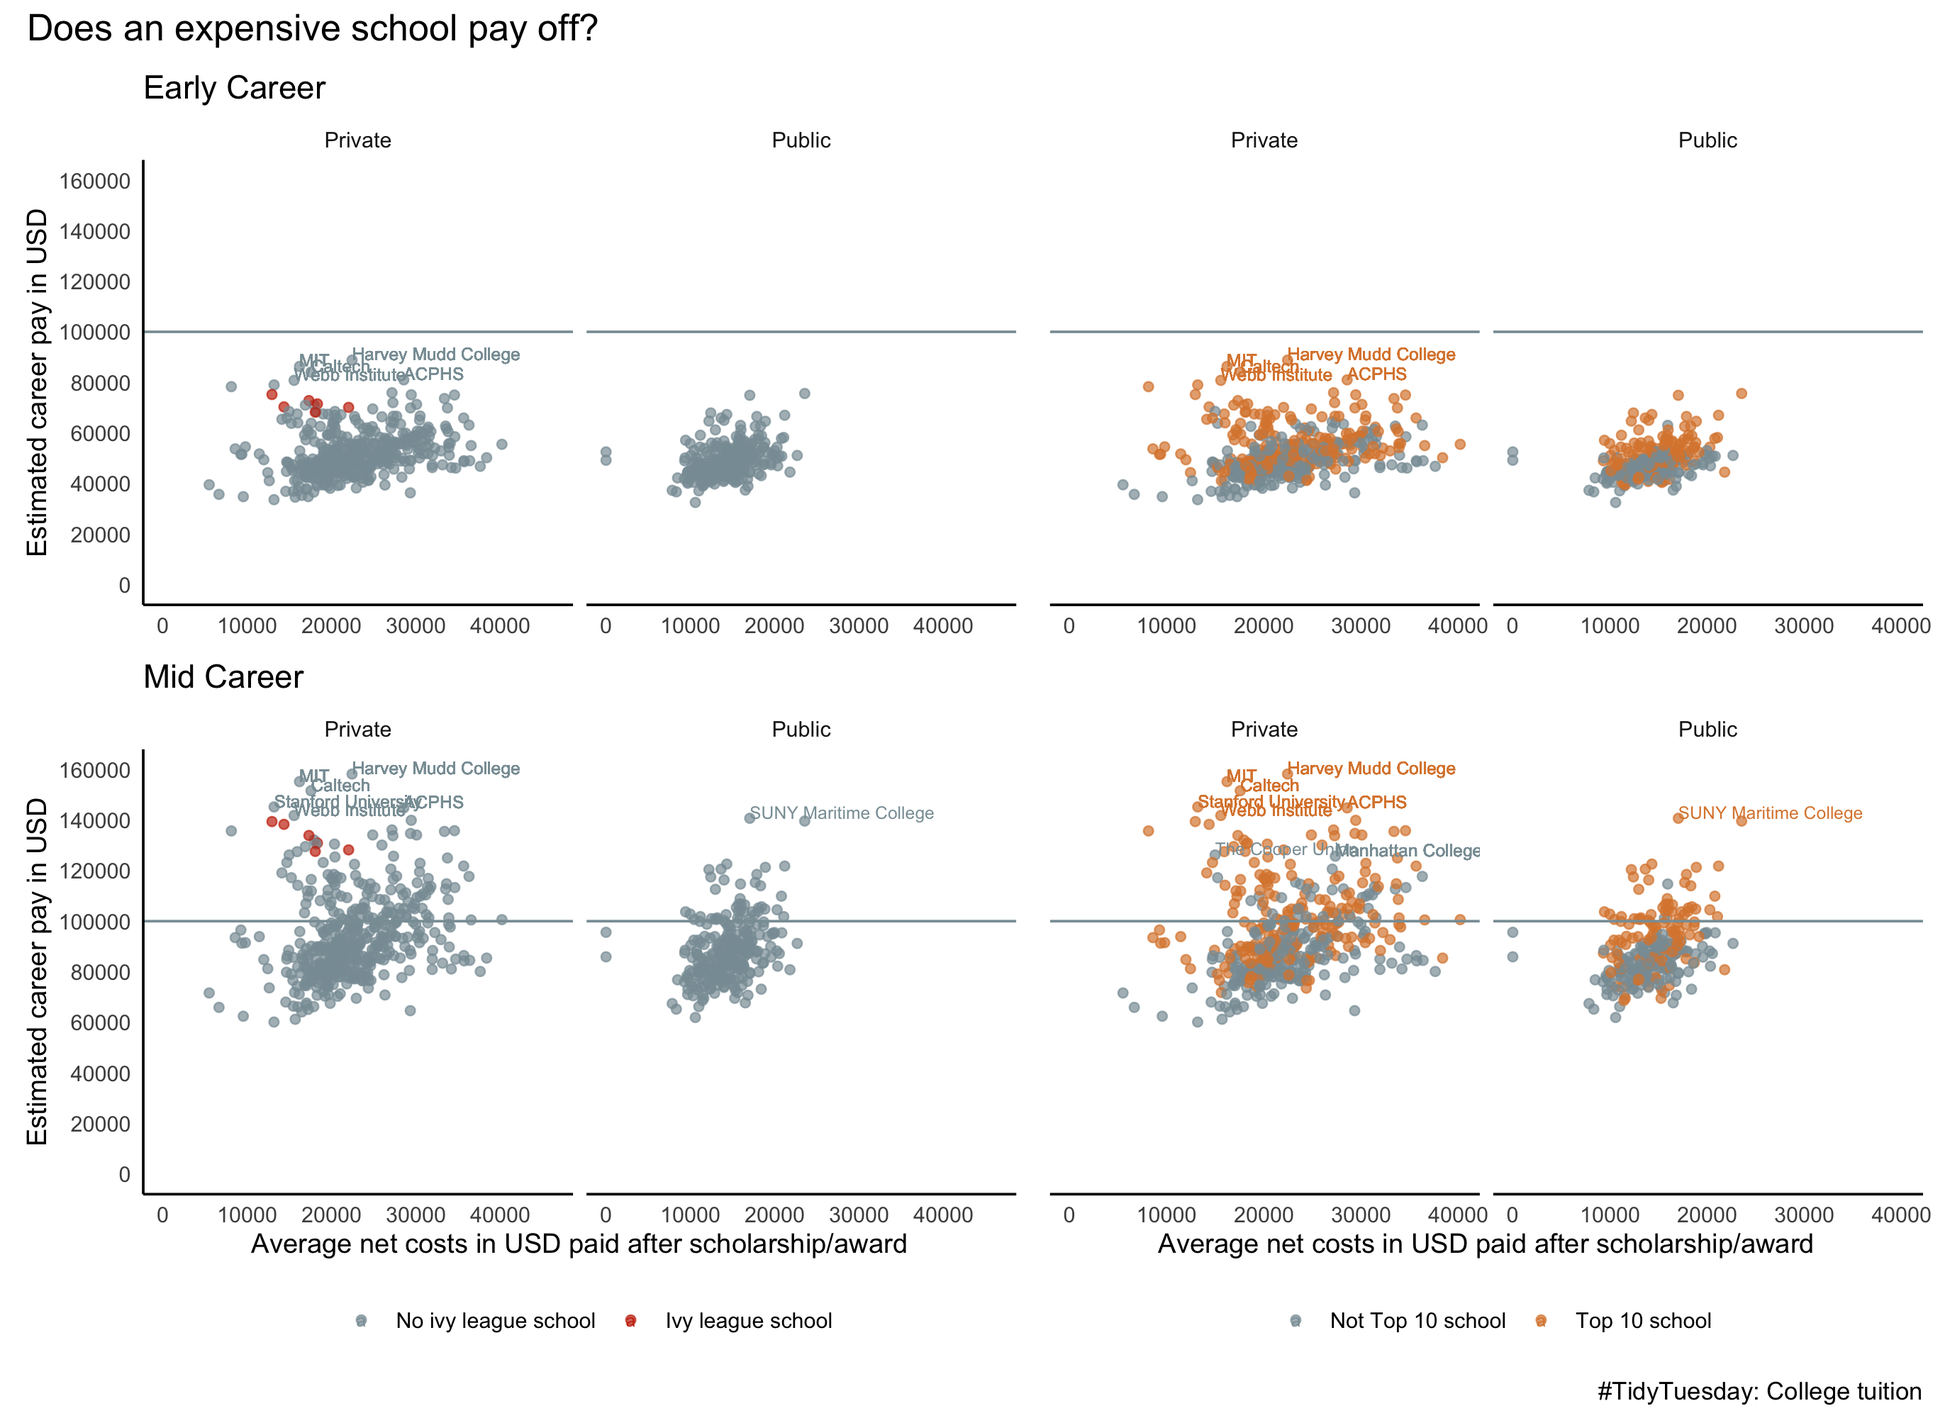
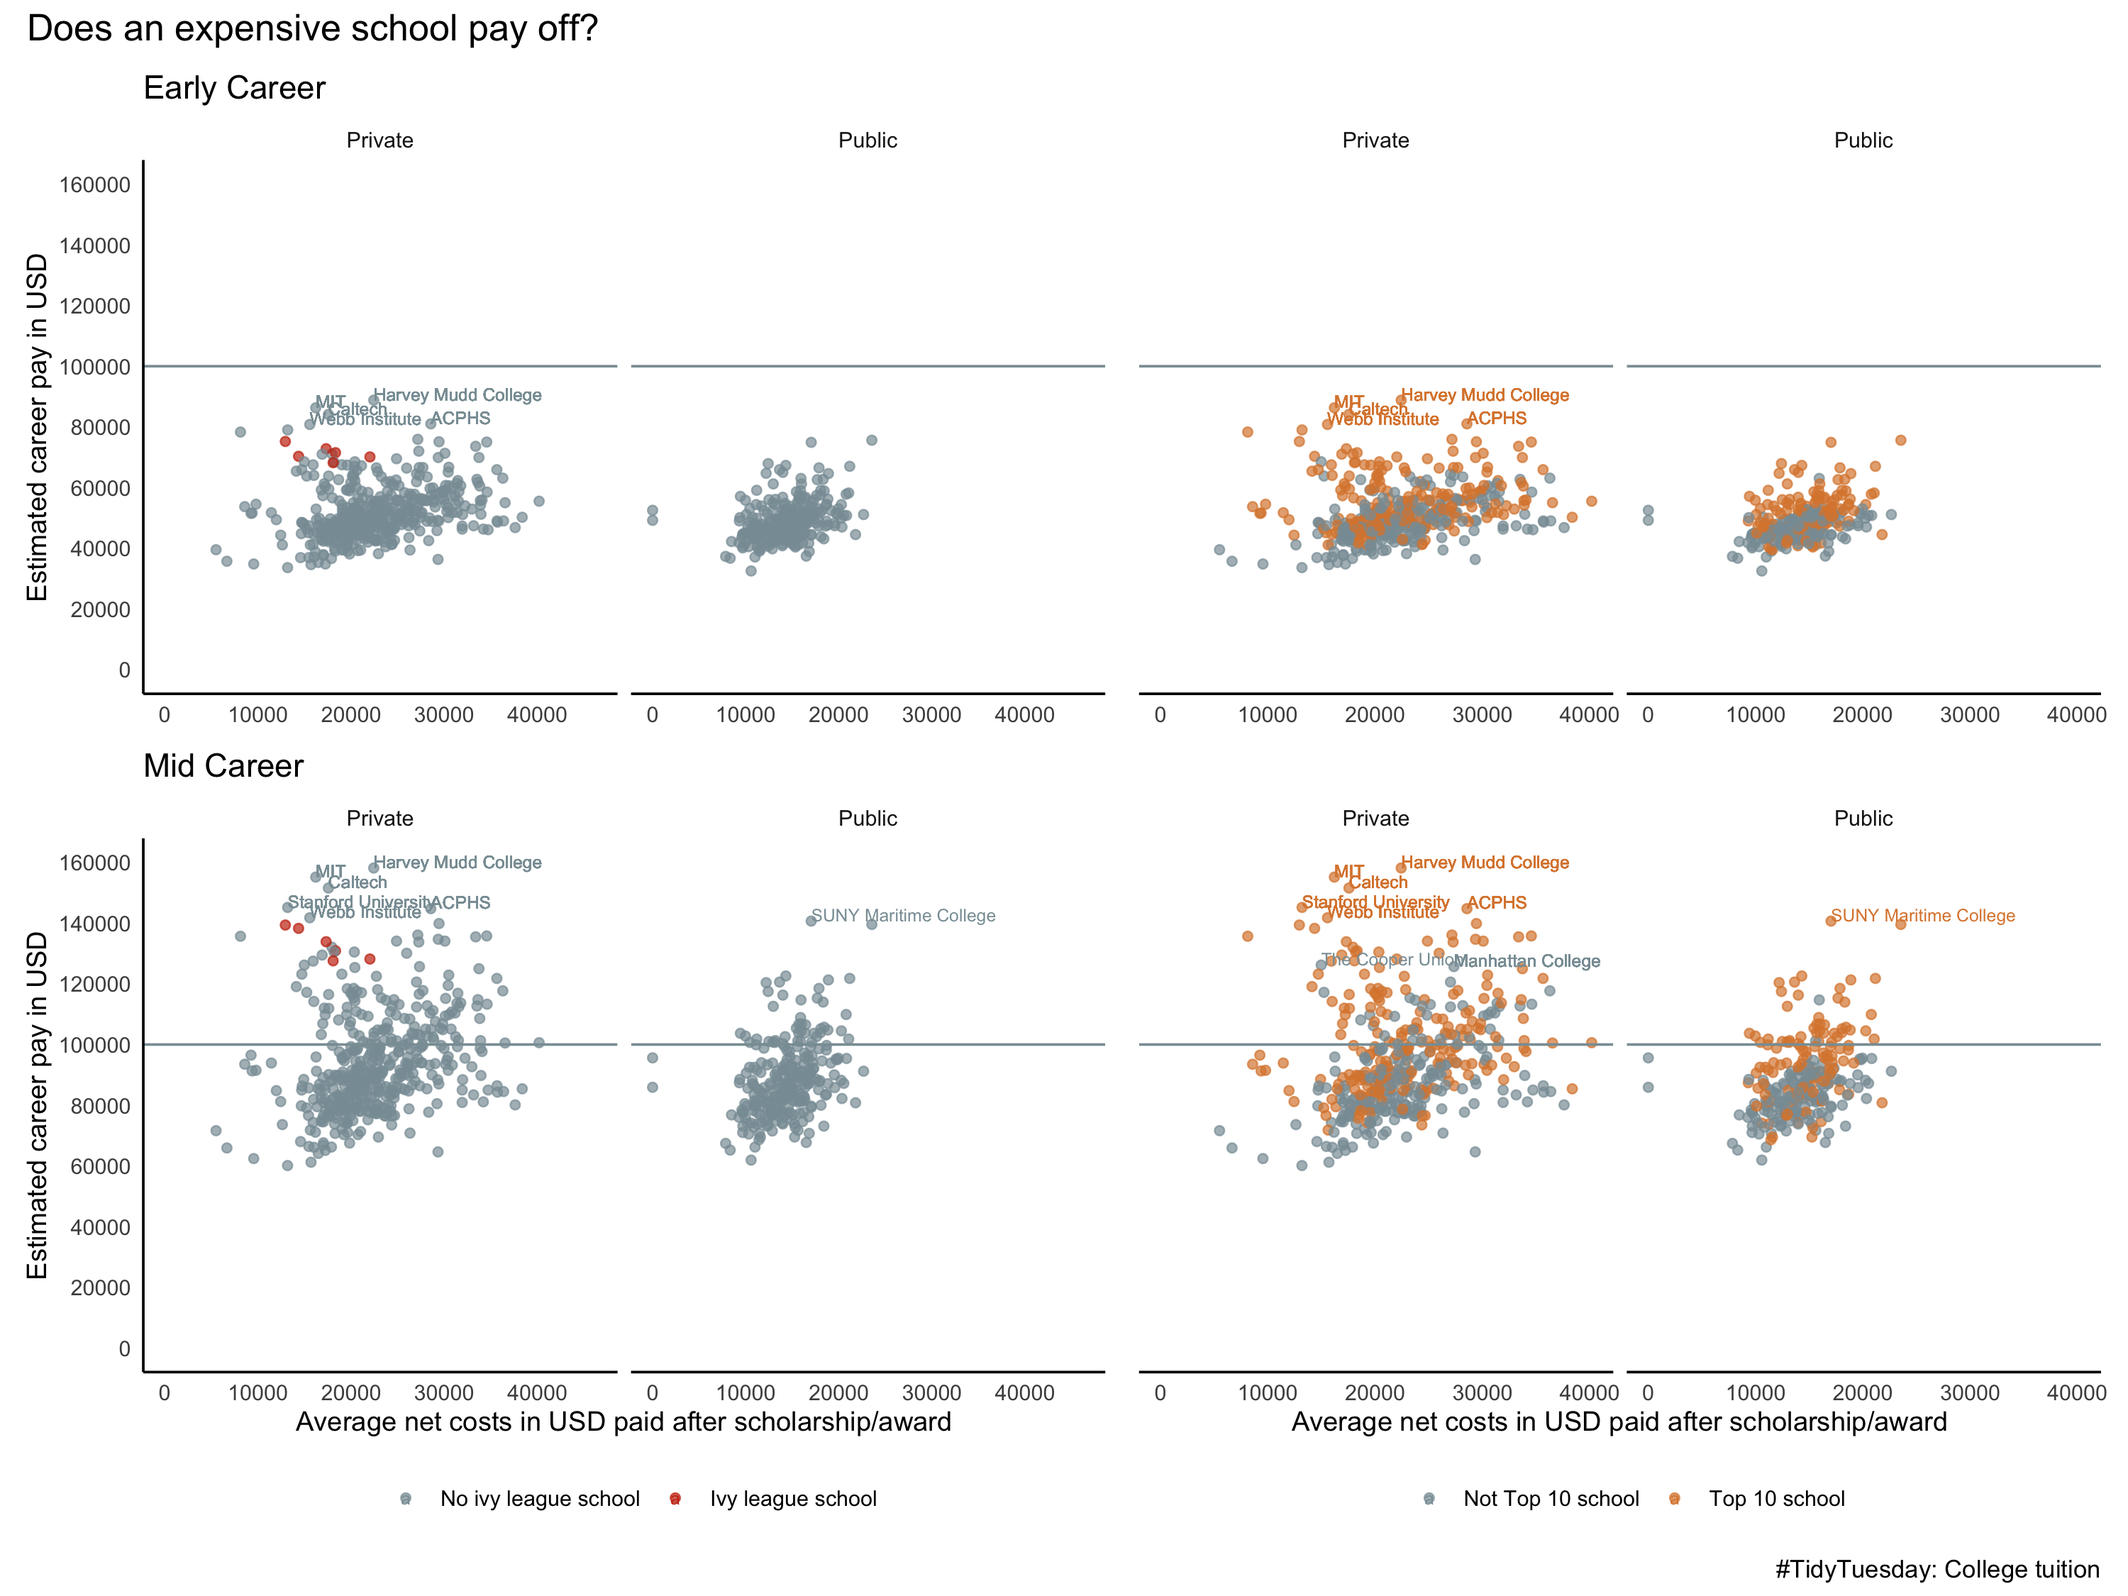
Update

diff --git a/Tidytuesday.html b/Tidytuesday.html
@@ -469,30 +469,30 @@ devtools::install_github(&quot;thebioengineer/tidytuesdayR&quot;)</code></pre>
 <pre><code>## --- Downloading files ---</code></pre>
 <pre><code>## Warning: 1021 parsing failures.
 ## row col  expected     actual                                                                                file
-##   2  -- 1 columns 7 columns  &#39;/var/folders/5b/fc8bxhpx7196zsj58kmfzfw80000gn/T//RtmpxtR93D/file6b1356aa498d.htm&#39;
-##   3  -- 1 columns 2 columns  &#39;/var/folders/5b/fc8bxhpx7196zsj58kmfzfw80000gn/T//RtmpxtR93D/file6b1356aa498d.htm&#39;
-##   4  -- 1 columns 4 columns  &#39;/var/folders/5b/fc8bxhpx7196zsj58kmfzfw80000gn/T//RtmpxtR93D/file6b1356aa498d.htm&#39;
-##   5  -- 1 columns 50 columns &#39;/var/folders/5b/fc8bxhpx7196zsj58kmfzfw80000gn/T//RtmpxtR93D/file6b1356aa498d.htm&#39;
-##   6  -- 1 columns 50 columns &#39;/var/folders/5b/fc8bxhpx7196zsj58kmfzfw80000gn/T//RtmpxtR93D/file6b1356aa498d.htm&#39;
+##   2  -- 1 columns 7 columns  &#39;/var/folders/5b/fc8bxhpx7196zsj58kmfzfw80000gn/T//RtmpsDyqaN/file7037529bd070.htm&#39;
+##   3  -- 1 columns 2 columns  &#39;/var/folders/5b/fc8bxhpx7196zsj58kmfzfw80000gn/T//RtmpsDyqaN/file7037529bd070.htm&#39;
+##   4  -- 1 columns 4 columns  &#39;/var/folders/5b/fc8bxhpx7196zsj58kmfzfw80000gn/T//RtmpsDyqaN/file7037529bd070.htm&#39;
+##   5  -- 1 columns 50 columns &#39;/var/folders/5b/fc8bxhpx7196zsj58kmfzfw80000gn/T//RtmpsDyqaN/file7037529bd070.htm&#39;
+##   6  -- 1 columns 50 columns &#39;/var/folders/5b/fc8bxhpx7196zsj58kmfzfw80000gn/T//RtmpsDyqaN/file7037529bd070.htm&#39;
 ## ... ... ......... .......... ...................................................................................
 ## See problems(...) for more details.</code></pre>
 <pre><code>## Warning: 1021 parsing failures.
 ## row col  expected     actual                                                                                file
-##   2  -- 1 columns 7 columns  &#39;/var/folders/5b/fc8bxhpx7196zsj58kmfzfw80000gn/T//RtmpxtR93D/file6b1345c2f46e.htm&#39;
-##   3  -- 1 columns 2 columns  &#39;/var/folders/5b/fc8bxhpx7196zsj58kmfzfw80000gn/T//RtmpxtR93D/file6b1345c2f46e.htm&#39;
-##   4  -- 1 columns 4 columns  &#39;/var/folders/5b/fc8bxhpx7196zsj58kmfzfw80000gn/T//RtmpxtR93D/file6b1345c2f46e.htm&#39;
-##   5  -- 1 columns 50 columns &#39;/var/folders/5b/fc8bxhpx7196zsj58kmfzfw80000gn/T//RtmpxtR93D/file6b1345c2f46e.htm&#39;
-##   6  -- 1 columns 50 columns &#39;/var/folders/5b/fc8bxhpx7196zsj58kmfzfw80000gn/T//RtmpxtR93D/file6b1345c2f46e.htm&#39;
+##   2  -- 1 columns 7 columns  &#39;/var/folders/5b/fc8bxhpx7196zsj58kmfzfw80000gn/T//RtmpsDyqaN/file70377391936e.htm&#39;
+##   3  -- 1 columns 2 columns  &#39;/var/folders/5b/fc8bxhpx7196zsj58kmfzfw80000gn/T//RtmpsDyqaN/file70377391936e.htm&#39;
+##   4  -- 1 columns 4 columns  &#39;/var/folders/5b/fc8bxhpx7196zsj58kmfzfw80000gn/T//RtmpsDyqaN/file70377391936e.htm&#39;
+##   5  -- 1 columns 50 columns &#39;/var/folders/5b/fc8bxhpx7196zsj58kmfzfw80000gn/T//RtmpsDyqaN/file70377391936e.htm&#39;
+##   6  -- 1 columns 50 columns &#39;/var/folders/5b/fc8bxhpx7196zsj58kmfzfw80000gn/T//RtmpsDyqaN/file70377391936e.htm&#39;
 ## ... ... ......... .......... ...................................................................................
 ## See problems(...) for more details.</code></pre>
 <pre><code>## Warning: 1012 parsing failures.
-## row col  expected     actual                                                                               file
-##   2  -- 1 columns 7 columns  &#39;/var/folders/5b/fc8bxhpx7196zsj58kmfzfw80000gn/T//RtmpxtR93D/file6b1323d858a.htm&#39;
-##   3  -- 1 columns 2 columns  &#39;/var/folders/5b/fc8bxhpx7196zsj58kmfzfw80000gn/T//RtmpxtR93D/file6b1323d858a.htm&#39;
-##   4  -- 1 columns 4 columns  &#39;/var/folders/5b/fc8bxhpx7196zsj58kmfzfw80000gn/T//RtmpxtR93D/file6b1323d858a.htm&#39;
-##   5  -- 1 columns 50 columns &#39;/var/folders/5b/fc8bxhpx7196zsj58kmfzfw80000gn/T//RtmpxtR93D/file6b1323d858a.htm&#39;
-##   6  -- 1 columns 50 columns &#39;/var/folders/5b/fc8bxhpx7196zsj58kmfzfw80000gn/T//RtmpxtR93D/file6b1323d858a.htm&#39;
-## ... ... ......... .......... ..................................................................................
+## row col  expected     actual                                                                                file
+##   2  -- 1 columns 7 columns  &#39;/var/folders/5b/fc8bxhpx7196zsj58kmfzfw80000gn/T//RtmpsDyqaN/file70375a665608.htm&#39;
+##   3  -- 1 columns 2 columns  &#39;/var/folders/5b/fc8bxhpx7196zsj58kmfzfw80000gn/T//RtmpsDyqaN/file70375a665608.htm&#39;
+##   4  -- 1 columns 4 columns  &#39;/var/folders/5b/fc8bxhpx7196zsj58kmfzfw80000gn/T//RtmpsDyqaN/file70375a665608.htm&#39;
+##   5  -- 1 columns 50 columns &#39;/var/folders/5b/fc8bxhpx7196zsj58kmfzfw80000gn/T//RtmpsDyqaN/file70375a665608.htm&#39;
+##   6  -- 1 columns 50 columns &#39;/var/folders/5b/fc8bxhpx7196zsj58kmfzfw80000gn/T//RtmpsDyqaN/file70375a665608.htm&#39;
+## ... ... ......... .......... ...................................................................................
 ## See problems(...) for more details.</code></pre>
 <pre><code>## Warning: Duplicated column names deduplicated: &#39;BLANK&#39; =&gt; &#39;BLANK_1&#39; [257],
 ## &#39;BLANK&#39; =&gt; &#39;BLANK_2&#39; [258], &#39;OUTLIER CHECK&#39; =&gt; &#39;OUTLIER CHECK_1&#39; [298],
@@ -508,16 +508,16 @@ devtools::install_github(&quot;thebioengineer/tidytuesdayR&quot;)</code></pre>
 ## total_1&#39; [386]</code></pre>
 <pre><code>## Warning: 1 parsing failure.
 ##  row   col           expected      actual                                                                                file
-## 5980 BLANK 1/0/T/F/TRUE/FALSE 0.250963763 &#39;/var/folders/5b/fc8bxhpx7196zsj58kmfzfw80000gn/T//RtmpxtR93D/file6b13150a282c.csv&#39;</code></pre>
+## 5980 BLANK 1/0/T/F/TRUE/FALSE 0.250963763 &#39;/var/folders/5b/fc8bxhpx7196zsj58kmfzfw80000gn/T//RtmpsDyqaN/file7037749a5595.csv&#39;</code></pre>
 <pre><code>## Warning in identify_delim(temp_file): Not able to detect delimiter for the file.
 ## Defaulting to ` `.</code></pre>
 <pre><code>## Warning: 213419 parsing failures.
 ## row col  expected     actual                                                                                  file
-##   1  -- 4 columns 2 columns  &#39;/var/folders/5b/fc8bxhpx7196zsj58kmfzfw80000gn/T//RtmpxtR93D/file6b135d816bbc.mhtml&#39;
-##   2  -- 4 columns 14 columns &#39;/var/folders/5b/fc8bxhpx7196zsj58kmfzfw80000gn/T//RtmpxtR93D/file6b135d816bbc.mhtml&#39;
-##   3  -- 4 columns 7 columns  &#39;/var/folders/5b/fc8bxhpx7196zsj58kmfzfw80000gn/T//RtmpxtR93D/file6b135d816bbc.mhtml&#39;
-##   4  -- 4 columns 2 columns  &#39;/var/folders/5b/fc8bxhpx7196zsj58kmfzfw80000gn/T//RtmpxtR93D/file6b135d816bbc.mhtml&#39;
-##   5  -- 4 columns 2 columns  &#39;/var/folders/5b/fc8bxhpx7196zsj58kmfzfw80000gn/T//RtmpxtR93D/file6b135d816bbc.mhtml&#39;
+##   1  -- 4 columns 2 columns  &#39;/var/folders/5b/fc8bxhpx7196zsj58kmfzfw80000gn/T//RtmpsDyqaN/file70373d314061.mhtml&#39;
+##   2  -- 4 columns 14 columns &#39;/var/folders/5b/fc8bxhpx7196zsj58kmfzfw80000gn/T//RtmpsDyqaN/file70373d314061.mhtml&#39;
+##   3  -- 4 columns 7 columns  &#39;/var/folders/5b/fc8bxhpx7196zsj58kmfzfw80000gn/T//RtmpsDyqaN/file70373d314061.mhtml&#39;
+##   4  -- 4 columns 2 columns  &#39;/var/folders/5b/fc8bxhpx7196zsj58kmfzfw80000gn/T//RtmpsDyqaN/file70373d314061.mhtml&#39;
+##   5  -- 4 columns 2 columns  &#39;/var/folders/5b/fc8bxhpx7196zsj58kmfzfw80000gn/T//RtmpsDyqaN/file70373d314061.mhtml&#39;
 ## ... ... ......... .......... .....................................................................................
 ## See problems(...) for more details.</code></pre>
 <pre><code>## Warning in identify_delim(temp_file): Detected multiple possible delimeters:`,`,
@@ -529,29 +529,29 @@ devtools::install_github(&quot;thebioengineer/tidytuesdayR&quot;)</code></pre>
 <pre><code>## --- Downloading files ---</code></pre>
 <pre><code>## Warning: 1021 parsing failures.
 ## row col  expected     actual                                                                               file
-##   2  -- 1 columns 7 columns  &#39;/var/folders/5b/fc8bxhpx7196zsj58kmfzfw80000gn/T//RtmpxtR93D/file6b13121e076.htm&#39;
-##   3  -- 1 columns 2 columns  &#39;/var/folders/5b/fc8bxhpx7196zsj58kmfzfw80000gn/T//RtmpxtR93D/file6b13121e076.htm&#39;
-##   4  -- 1 columns 4 columns  &#39;/var/folders/5b/fc8bxhpx7196zsj58kmfzfw80000gn/T//RtmpxtR93D/file6b13121e076.htm&#39;
-##   5  -- 1 columns 50 columns &#39;/var/folders/5b/fc8bxhpx7196zsj58kmfzfw80000gn/T//RtmpxtR93D/file6b13121e076.htm&#39;
-##   6  -- 1 columns 50 columns &#39;/var/folders/5b/fc8bxhpx7196zsj58kmfzfw80000gn/T//RtmpxtR93D/file6b13121e076.htm&#39;
+##   2  -- 1 columns 7 columns  &#39;/var/folders/5b/fc8bxhpx7196zsj58kmfzfw80000gn/T//RtmpsDyqaN/file70379947d8e.htm&#39;
+##   3  -- 1 columns 2 columns  &#39;/var/folders/5b/fc8bxhpx7196zsj58kmfzfw80000gn/T//RtmpsDyqaN/file70379947d8e.htm&#39;
+##   4  -- 1 columns 4 columns  &#39;/var/folders/5b/fc8bxhpx7196zsj58kmfzfw80000gn/T//RtmpsDyqaN/file70379947d8e.htm&#39;
+##   5  -- 1 columns 50 columns &#39;/var/folders/5b/fc8bxhpx7196zsj58kmfzfw80000gn/T//RtmpsDyqaN/file70379947d8e.htm&#39;
+##   6  -- 1 columns 50 columns &#39;/var/folders/5b/fc8bxhpx7196zsj58kmfzfw80000gn/T//RtmpsDyqaN/file70379947d8e.htm&#39;
 ## ... ... ......... .......... ..................................................................................
 ## See problems(...) for more details.</code></pre>
 <pre><code>## Warning: 1021 parsing failures.
 ## row col  expected     actual                                                                                file
-##   2  -- 1 columns 7 columns  &#39;/var/folders/5b/fc8bxhpx7196zsj58kmfzfw80000gn/T//RtmpxtR93D/file6b135717638e.htm&#39;
-##   3  -- 1 columns 2 columns  &#39;/var/folders/5b/fc8bxhpx7196zsj58kmfzfw80000gn/T//RtmpxtR93D/file6b135717638e.htm&#39;
-##   4  -- 1 columns 4 columns  &#39;/var/folders/5b/fc8bxhpx7196zsj58kmfzfw80000gn/T//RtmpxtR93D/file6b135717638e.htm&#39;
-##   5  -- 1 columns 50 columns &#39;/var/folders/5b/fc8bxhpx7196zsj58kmfzfw80000gn/T//RtmpxtR93D/file6b135717638e.htm&#39;
-##   6  -- 1 columns 50 columns &#39;/var/folders/5b/fc8bxhpx7196zsj58kmfzfw80000gn/T//RtmpxtR93D/file6b135717638e.htm&#39;
+##   2  -- 1 columns 7 columns  &#39;/var/folders/5b/fc8bxhpx7196zsj58kmfzfw80000gn/T//RtmpsDyqaN/file703773befa8b.htm&#39;
+##   3  -- 1 columns 2 columns  &#39;/var/folders/5b/fc8bxhpx7196zsj58kmfzfw80000gn/T//RtmpsDyqaN/file703773befa8b.htm&#39;
+##   4  -- 1 columns 4 columns  &#39;/var/folders/5b/fc8bxhpx7196zsj58kmfzfw80000gn/T//RtmpsDyqaN/file703773befa8b.htm&#39;
+##   5  -- 1 columns 50 columns &#39;/var/folders/5b/fc8bxhpx7196zsj58kmfzfw80000gn/T//RtmpsDyqaN/file703773befa8b.htm&#39;
+##   6  -- 1 columns 50 columns &#39;/var/folders/5b/fc8bxhpx7196zsj58kmfzfw80000gn/T//RtmpsDyqaN/file703773befa8b.htm&#39;
 ## ... ... ......... .......... ...................................................................................
 ## See problems(...) for more details.</code></pre>
 <pre><code>## Warning: 1012 parsing failures.
 ## row col  expected     actual                                                                                file
-##   2  -- 1 columns 7 columns  &#39;/var/folders/5b/fc8bxhpx7196zsj58kmfzfw80000gn/T//RtmpxtR93D/file6b1340892c4d.htm&#39;
-##   3  -- 1 columns 2 columns  &#39;/var/folders/5b/fc8bxhpx7196zsj58kmfzfw80000gn/T//RtmpxtR93D/file6b1340892c4d.htm&#39;
-##   4  -- 1 columns 4 columns  &#39;/var/folders/5b/fc8bxhpx7196zsj58kmfzfw80000gn/T//RtmpxtR93D/file6b1340892c4d.htm&#39;
-##   5  -- 1 columns 50 columns &#39;/var/folders/5b/fc8bxhpx7196zsj58kmfzfw80000gn/T//RtmpxtR93D/file6b1340892c4d.htm&#39;
-##   6  -- 1 columns 50 columns &#39;/var/folders/5b/fc8bxhpx7196zsj58kmfzfw80000gn/T//RtmpxtR93D/file6b1340892c4d.htm&#39;
+##   2  -- 1 columns 7 columns  &#39;/var/folders/5b/fc8bxhpx7196zsj58kmfzfw80000gn/T//RtmpsDyqaN/file70377f32f70a.htm&#39;
+##   3  -- 1 columns 2 columns  &#39;/var/folders/5b/fc8bxhpx7196zsj58kmfzfw80000gn/T//RtmpsDyqaN/file70377f32f70a.htm&#39;
+##   4  -- 1 columns 4 columns  &#39;/var/folders/5b/fc8bxhpx7196zsj58kmfzfw80000gn/T//RtmpsDyqaN/file70377f32f70a.htm&#39;
+##   5  -- 1 columns 50 columns &#39;/var/folders/5b/fc8bxhpx7196zsj58kmfzfw80000gn/T//RtmpsDyqaN/file70377f32f70a.htm&#39;
+##   6  -- 1 columns 50 columns &#39;/var/folders/5b/fc8bxhpx7196zsj58kmfzfw80000gn/T//RtmpsDyqaN/file70377f32f70a.htm&#39;
 ## ... ... ......... .......... ...................................................................................
 ## See problems(...) for more details.</code></pre>
 <pre><code>## Warning: Duplicated column names deduplicated: &#39;BLANK&#39; =&gt; &#39;BLANK_1&#39; [257],
@@ -568,16 +568,16 @@ devtools::install_github(&quot;thebioengineer/tidytuesdayR&quot;)</code></pre>
 ## total_1&#39; [386]</code></pre>
 <pre><code>## Warning: 1 parsing failure.
 ##  row   col           expected      actual                                                                                file
-## 5980 BLANK 1/0/T/F/TRUE/FALSE 0.250963763 &#39;/var/folders/5b/fc8bxhpx7196zsj58kmfzfw80000gn/T//RtmpxtR93D/file6b136dbb9454.csv&#39;</code></pre>
+## 5980 BLANK 1/0/T/F/TRUE/FALSE 0.250963763 &#39;/var/folders/5b/fc8bxhpx7196zsj58kmfzfw80000gn/T//RtmpsDyqaN/file70376af8f2c3.csv&#39;</code></pre>
 <pre><code>## Warning in identify_delim(temp_file): Not able to detect delimiter for the file.
 ## Defaulting to ` `.</code></pre>
 <pre><code>## Warning: 213419 parsing failures.
 ## row col  expected     actual                                                                                  file
-##   1  -- 4 columns 2 columns  &#39;/var/folders/5b/fc8bxhpx7196zsj58kmfzfw80000gn/T//RtmpxtR93D/file6b133ed3a495.mhtml&#39;
-##   2  -- 4 columns 14 columns &#39;/var/folders/5b/fc8bxhpx7196zsj58kmfzfw80000gn/T//RtmpxtR93D/file6b133ed3a495.mhtml&#39;
-##   3  -- 4 columns 7 columns  &#39;/var/folders/5b/fc8bxhpx7196zsj58kmfzfw80000gn/T//RtmpxtR93D/file6b133ed3a495.mhtml&#39;
-##   4  -- 4 columns 2 columns  &#39;/var/folders/5b/fc8bxhpx7196zsj58kmfzfw80000gn/T//RtmpxtR93D/file6b133ed3a495.mhtml&#39;
-##   5  -- 4 columns 2 columns  &#39;/var/folders/5b/fc8bxhpx7196zsj58kmfzfw80000gn/T//RtmpxtR93D/file6b133ed3a495.mhtml&#39;
+##   1  -- 4 columns 2 columns  &#39;/var/folders/5b/fc8bxhpx7196zsj58kmfzfw80000gn/T//RtmpsDyqaN/file7037444579a7.mhtml&#39;
+##   2  -- 4 columns 14 columns &#39;/var/folders/5b/fc8bxhpx7196zsj58kmfzfw80000gn/T//RtmpsDyqaN/file7037444579a7.mhtml&#39;
+##   3  -- 4 columns 7 columns  &#39;/var/folders/5b/fc8bxhpx7196zsj58kmfzfw80000gn/T//RtmpsDyqaN/file7037444579a7.mhtml&#39;
+##   4  -- 4 columns 2 columns  &#39;/var/folders/5b/fc8bxhpx7196zsj58kmfzfw80000gn/T//RtmpsDyqaN/file7037444579a7.mhtml&#39;
+##   5  -- 4 columns 2 columns  &#39;/var/folders/5b/fc8bxhpx7196zsj58kmfzfw80000gn/T//RtmpsDyqaN/file7037444579a7.mhtml&#39;
 ## ... ... ......... .......... .....................................................................................
 ## See problems(...) for more details.</code></pre>
 <pre><code>## Warning in identify_delim(temp_file): Detected multiple possible delimeters:`,`,
@@ -930,7 +930,7 @@ plot &lt;- patchwork + plot_annotation(
 
 #ggsave(&#39;figures/TidyTuesday_Tuition.png&#39;, plot)
 ggsave(filename = &quot;figures/TidyTuesday_Tuition.png&quot;,plot,
-       width = 11, height = 8, dpi = 250, units = &quot;in&quot;, device=&#39;png&#39;)</code></pre>
+       width = 12, height = 9, dpi = 250, units = &quot;in&quot;, device=&#39;png&#39;)</code></pre>
 <pre><code>## Warning: Removed 2158 rows containing missing values (geom_point).
 
 ## Warning: Removed 2158 rows containing missing values (geom_point).</code></pre>
